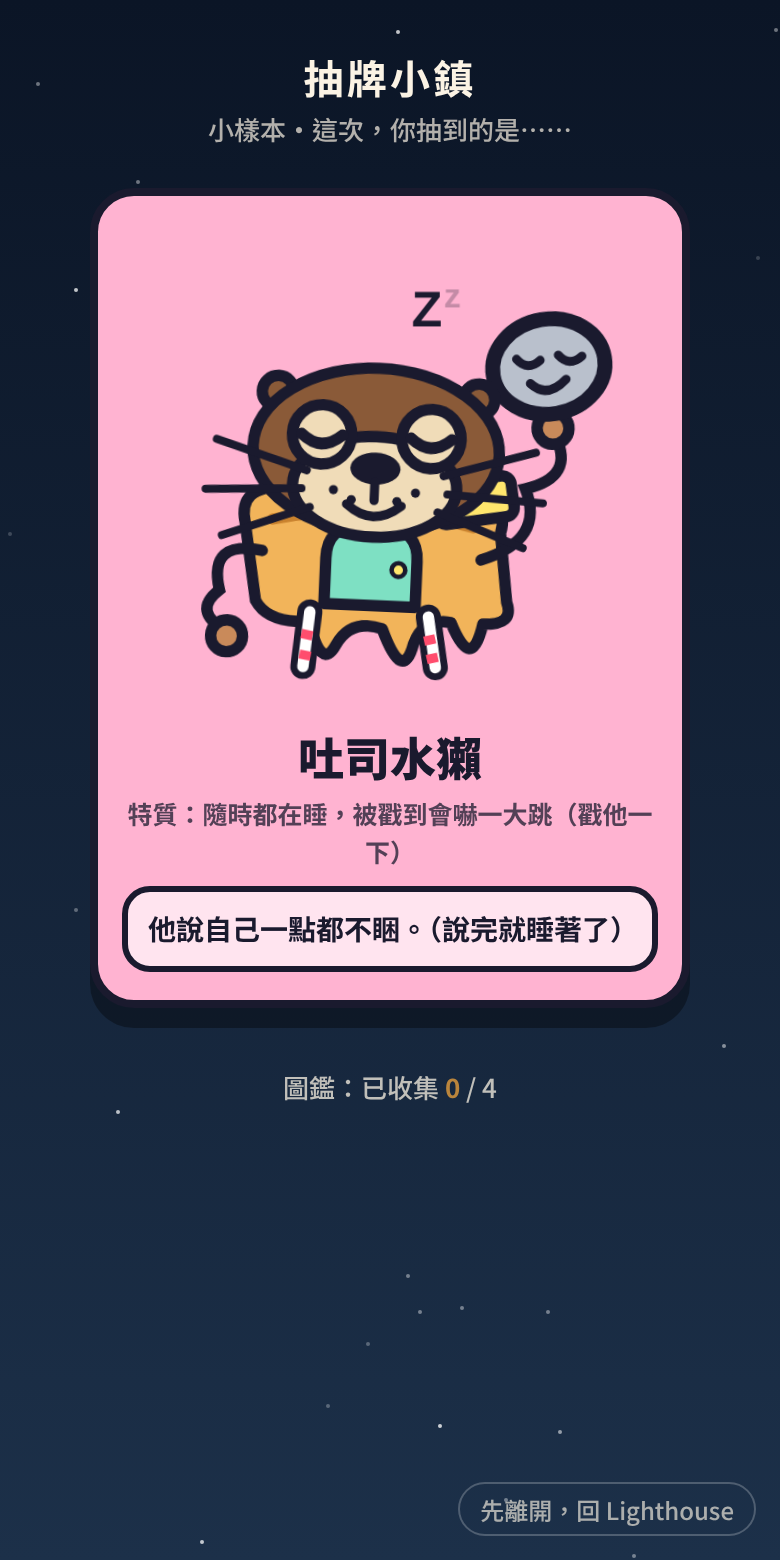
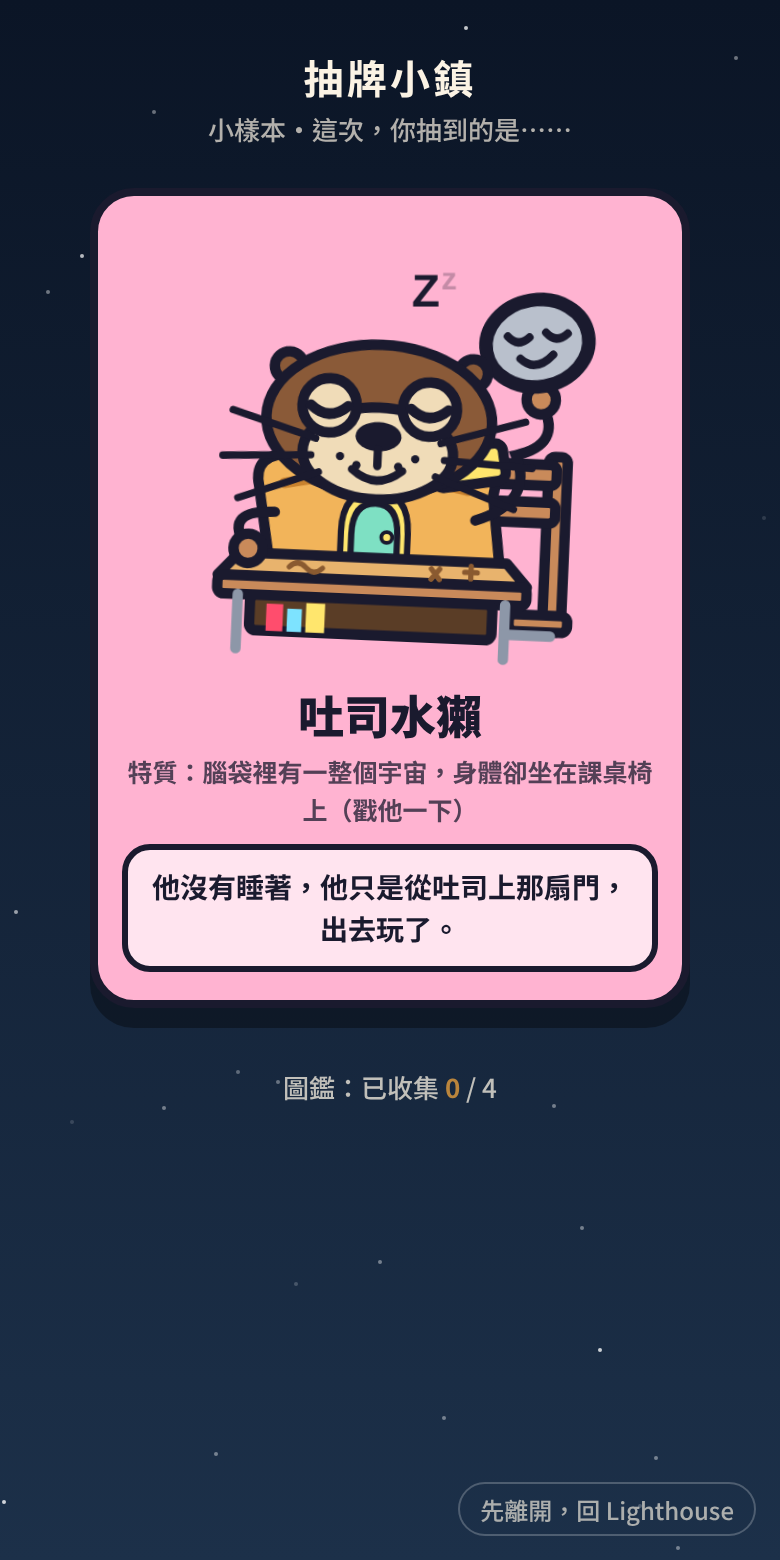
Lighthouse: 抽牌小樣本，水獺改為坐在課桌椅上、吐司有通往別處的門
Claude-Session: https://claude.ai/code/session_01QMXbFy7GatcecM2zJaJAS8

Changed region(s): [[0.1538, 0.1538, 0.8615, 0.6154]]

diff --git a/lighthouse/cards-sample.html b/lighthouse/cards-sample.html
@@ -113,17 +113,24 @@ const eyeSpiral = (x,y,r=12) => { let d = ""; for(let i = 0; i <= 44; i++){ cons
   return `<g class="blink"><circle cx="${x}" cy="${y}" r="${r}" fill="#fff" stroke="${INK}" stroke-width="3.2"/><path d="${d}" fill="none" stroke="${INK}" stroke-width="2" stroke-linecap="round" stroke-linejoin="round"/></g>`; };
 const ART = {
   /* 吐司水獺：奶油融化中，三隻眼睛高低不一，手像麵條 */
-  otter: `<svg viewBox="0.9 -15.3 220 220"><g class="wob">
+  otter: `<svg viewBox="0 -10 220 220"><g class="wob">
+    <rect x="182" y="100" width="9" height="84" rx="3" fill="#c98a5a" ${o}/>
+    <rect x="140" y="104" width="46" height="10" rx="3" fill="#c98a5a" ${o}/><rect x="140" y="122" width="46" height="10" rx="3" fill="#c98a5a" ${o}/>
+    <rect x="166" y="176" width="28" height="8" rx="3" fill="#c98a5a" ${o}/>
     <path d="M44 120 Q40 104 60 104 L140 104 Q160 104 156 120 L160 150 Q164 160 150 160 Q146 182 136 160 Q124 158 120 170 Q116 188 106 164 Q92 160 86 172 Q80 184 74 162 Q56 164 50 154 Z" fill="#f2b45a" ${o}/>
     <path d="M56 118 Q100 108 144 118" fill="none" stroke="#c9822e" stroke-width="5" stroke-linecap="round"/>
-    <path d="M74 158 L72 182" stroke="${INK}" stroke-width="11" stroke-linecap="round"/><path d="M74 158 L72 182" stroke="#fff" stroke-width="5" stroke-linecap="round"/>
-    <path d="M73.5 166 L72.8 170 M73 175 L72.4 179" stroke="#ff4d6d" stroke-width="5"/>
-    <path d="M126 158 L130 180" stroke="${INK}" stroke-width="11" stroke-linecap="round"/><path d="M126 158 L130 180" stroke="#fff" stroke-width="5" stroke-linecap="round"/>
-    <path d="M126.5 166 L127.5 170 M128 174 L129 178" stroke="#ff4d6d" stroke-width="5"/>
-    <path d="M80 130 Q80 116 94 116 L106 116 Q120 116 120 130 L120 150 L80 150Z" fill="#7ee0c3" ${o} transform="translate(0 4)"/>
-    <circle cx="112" cy="138" r="3" fill="#ffe66d" stroke="${INK}" stroke-width="2"/>
+    <path d="M84 152 L84 140 Q84 120 100 120 Q116 120 116 140 L116 152Z" fill="#ffe66d" stroke="${INK}" stroke-width="3"/>
+    <path d="M89 152 L89 141 Q89 126 100 126 Q111 126 111 141 L111 152Z" fill="#7ee0c3" stroke="${INK}" stroke-width="3"/>
+    <circle cx="106" cy="142" r="2.6" fill="#ffe66d" stroke="${INK}" stroke-width="1.8"/>
+    <path d="M36 152 L164 152 L174 163 L26 163Z" fill="#e8b36d" ${o}/>
+    <rect x="26" y="163" width="148" height="9" rx="3" fill="#c98a5a" ${o}/>
+    <path d="M60 158 Q64 154 68 158 Q72 162 76 158 M128 156 L132 161 M128 161 L132 156 M144 157 L150 157 M147 154 L147 160" fill="none" stroke="#8a5a30" stroke-width="2.5" stroke-linecap="round"/>
+    <rect x="42" y="172" width="116" height="17" rx="3" fill="#5a3d26" ${o}/>
+    <rect x="50" y="176" width="8" height="13" fill="#ff4d6d"/><rect x="60" y="178" width="7" height="11" fill="#7de3ff"/><rect x="69" y="175" width="9" height="14" fill="#ffe66d"/>
+    <path d="M36 172 L36 198 M164 172 L164 198" stroke="#8d97a8" stroke-width="5" stroke-linecap="round"/>
+    <path d="M164 186 L186 186" stroke="#8d97a8" stroke-width="5" stroke-linecap="round"/>
     <g transform="rotate(-10 150 112)"><rect x="128" y="96" width="34" height="18" rx="4" fill="#ffe66d" ${o}/></g>
-    <path d="M52 132 Q28 128 34 150 Q22 160 38 168" fill="none" stroke="${INK}" stroke-width="5" stroke-linecap="round"/><circle cx="38" cy="170" r="7" fill="#c98a5a" ${o}/>
+    <path d="M52 132 Q28 132 38 148" fill="none" stroke="${INK}" stroke-width="5" stroke-linecap="round"/><circle cx="40" cy="150" r="7" fill="#c98a5a" ${o}/>
     <path d="M148 132 Q176 122 166 100 Q188 94 178 76" fill="none" stroke="${INK}" stroke-width="5" stroke-linecap="round"/><circle cx="177" cy="73" r="7" fill="#c98a5a" ${o}/><g class="rock"><g transform="translate(174 46) scale(1.3) translate(-177 -52)"><ellipse cx="177" cy="52" rx="19" ry="16" fill="#b9c0cc" ${o} transform="rotate(-12 177 52)"/>
     <g class="sleepE"><path d="M166 50 Q170 54 174 50 M180 48 Q184 52 188 48" fill="none" stroke="${INK}" stroke-width="3" stroke-linecap="round"/><path d="M171 58 Q177 63 183 56" fill="none" stroke="${INK}" stroke-width="3" stroke-linecap="round"/></g>
     <g class="awakeE"><circle cx="169" cy="49" r="6.5" fill="#fff" stroke="${INK}" stroke-width="2.2" stroke-linejoin="round"/><circle cx="185" cy="46" r="6.5" fill="#fff" stroke="${INK}" stroke-width="2.2" stroke-linejoin="round"/><circle cx="169" cy="49" r="1.5" fill="${INK}"/><circle cx="185" cy="46" r="1.5" fill="${INK}"/><ellipse cx="178" cy="60" rx="4" ry="5" fill="#7a1f3a" stroke="${INK}" stroke-width="2.2" stroke-linejoin="round"/><path d="M156 36 L150 30 M198 34 L204 28 M200 54 L208 54" stroke="${INK}" stroke-width="2.4" stroke-linecap="round"/></g></g></g>
@@ -212,7 +219,7 @@ const ART = {
 };
 
 const CARDS = [
-  {id:"otter",   name:"吐司水獺",   trait:"特質：隨時都在睡，被戳到會嚇一大跳（戳他一下）", say:"他說自己一點都不睏。（說完就睡著了）", bg:"#ffb3d1", rare:0},
+  {id:"otter",   name:"吐司水獺",   trait:"特質：腦袋裡有一整個宇宙，身體卻坐在課桌椅上（戳他一下）", say:"他沒有睡著，他只是從吐司上那扇門，出去玩了。", bg:"#ffb3d1", rare:0},
   {id:"hedgehog",name:"WiFi 刺蝟", trait:"特質：訊號不好就炸毛（戳他一下試試）", say:"他不是在生氣，只是在轉圈圈載入中。", bg:"#b8f27c", rare:0},
   {id:"penguin", name:"倒帶企鵝",   trait:"特質：肚子的時鐘倒著走，常常回頭看昨天", say:"他不是困住了，只是還想再看一眼昨天。", bg:"#7de3ff", rare:0},
   {id:"snail",   name:"茶杯燈塔蝸牛", trait:"特質：慢慢來，迷路也沒關係，而且會發光", say:"仙境本來就沒有直線，你走歪的那一步，也算數。", bg:"#7a5cff", rare:1}
